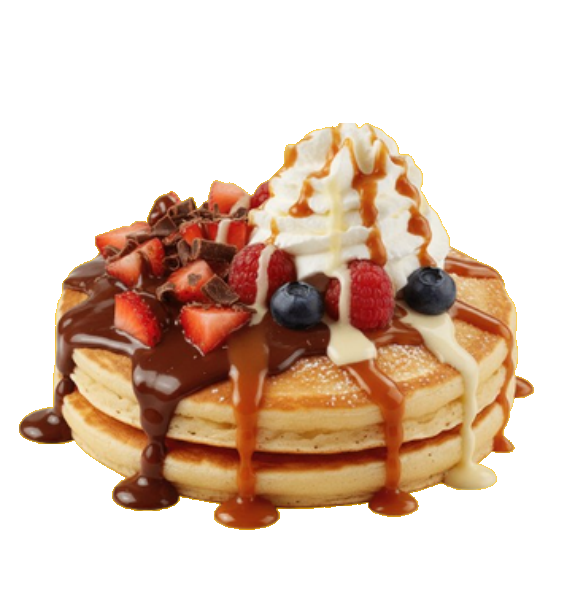
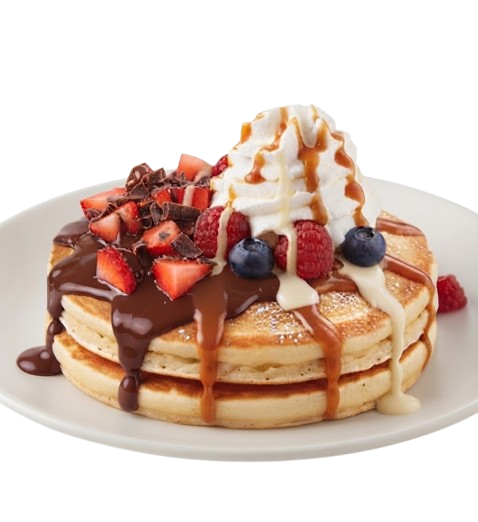
Fixed some z index

diff --git a/components/menu/drink-carousel.tsx b/components/menu/drink-carousel.tsx
@@ -61,12 +61,6 @@ export function DrinkCarousel({ products }: { products: Product[] }) {
             className="flex w-full shrink-0 snap-center flex-col items-center px-4 sm:px-6 "
           >
             <div className="relative flex h-[26rem] w-full max-w-sm items-center justify-center sm:h-[30rem]">
-              {/* contact shadow — sits behind the image, on the floor */}
-              <div
-                aria-hidden
-                className="pointer-events-none absolute bottom-6 h-8 w-1/2 rounded-[100%] blur-lg sm:h-10"
-                style={{ backgroundColor: "var(--shadow-color)" }}
-              />
               <Image
                 src={product.image}
                 alt={product.name}
